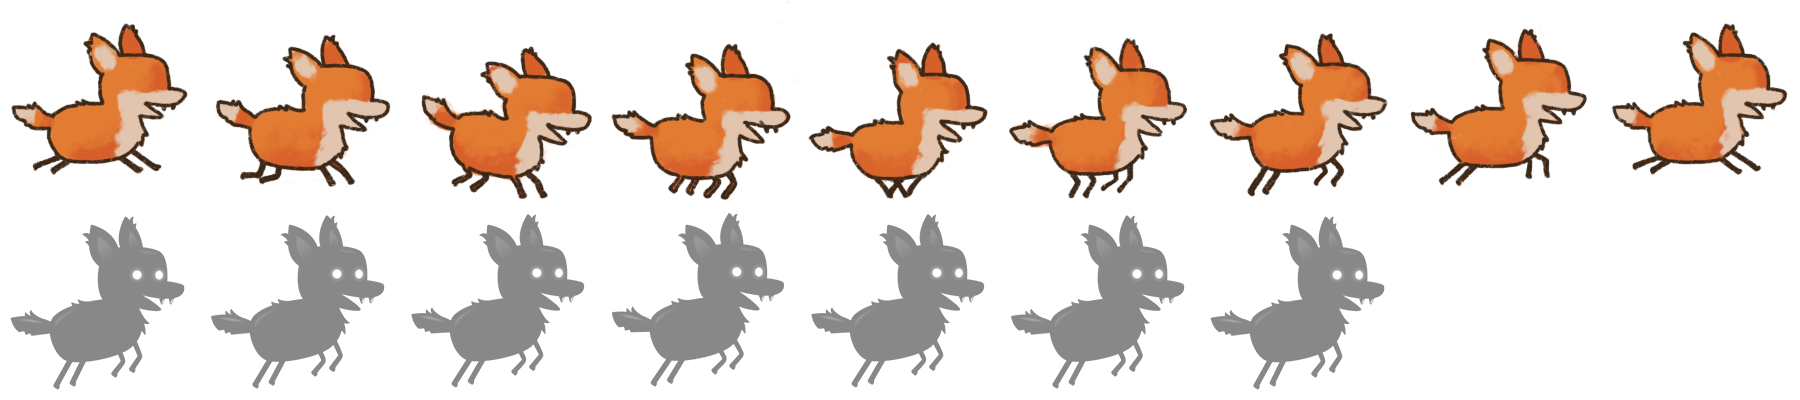
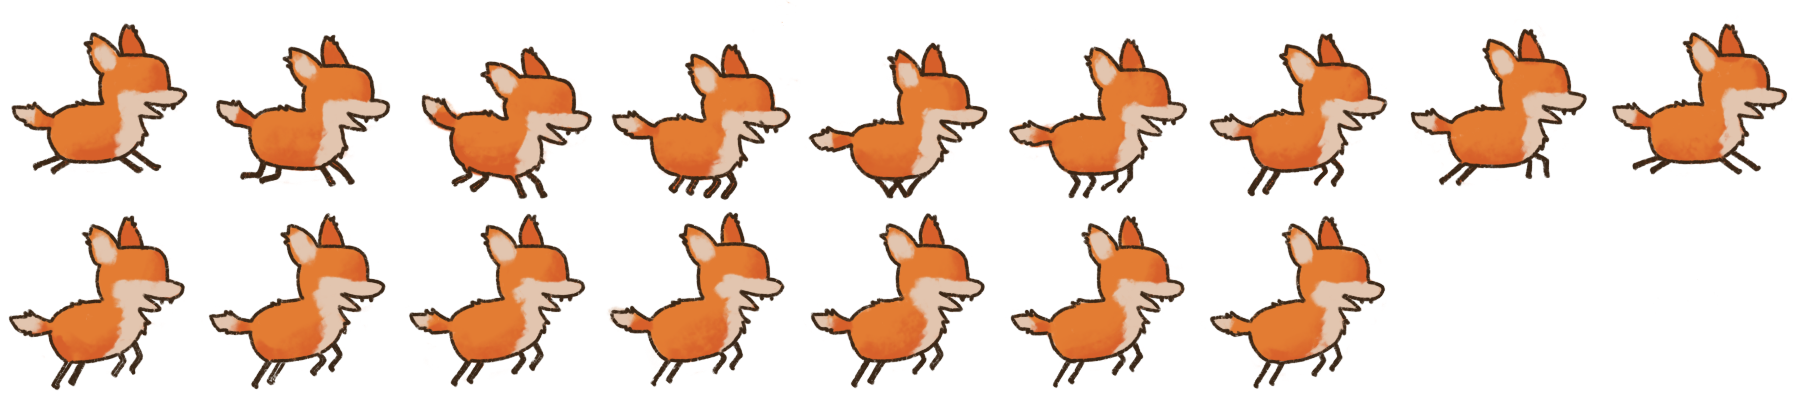
added new custom jump sprite sheet

Changed region(s): [[0.0, 0.54, 0.3422, 0.96], [0.3422, 0.54, 0.56, 0.96], [0.56, 0.54, 0.7778, 0.96]]

diff --git a/script.js b/script.js
@@ -74,7 +74,7 @@ window.addEventListener("load", (e) => {
         const dy = enemy.y + enemy.height / 2 - (this.y + this.width / 2);
         const distance = Math.sqrt(dx * dx + dy * dy);
         if (distance < enemy.width / 2 + this.width / 2) {
-          gameOver = true;
+          // gameOver = true;
         }
       });
 
